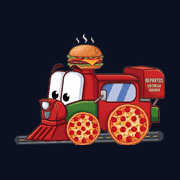
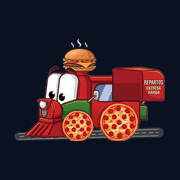
Cajon de repartos mas grande, delante de la cabina
Lo que el logo tiene que decir primero es "servicio express", y lo dice el
cajon. Se agranda, se mete hasta la mitad de la ventana de la cabina y sale
mas a la derecha del tren, segun el recuadro que marco el negocio. Tapar
parte de la ventana es a proposito: lo pidieron asi para que el cajon
resalte.

EL FRENTE SE ESCALA, EL COSTADO SE ALARGA

Estirar el cajon completo hacia los lados deformaba "REPARTOS". Se corta en
tres tramos: el contorno izquierdo, el costado liso (que es el que se
alarga, 1,48 veces) y el frente con el texto, que solo se escala parejo.
Despues todo crece un 15 %, asi el texto tambien gana tamano.

LO QUE NUNCA SE HABIA DIBUJADO

En el original el cajon va detras de la cabina y el techo le tapa la parte
baja del costado. Al ponerlo delante esa parte queda a la vista, asi que se
reconstruye fila por fila con el color del tramo de costado que si se veia,
y se le dibuja el contorno izquierdo y el de abajo, con la esquina
redondeada como la de arriba. El contorno nuevo arranca por encima de donde
termina el original para que no quede un escalon entre los dos.

El cajon original termina en y=841: lo que sigue abajo es la repisa gris y
la punta del soporte, que son del tren y se quedan. El cajon nuevo baja
hasta 885 para tapar la repisa, que asomaba como una raya clara.

La carretera ahora corre por todo el ancho, tambien debajo del cajon que
sobresale.

Changed region(s): [[0.0833, 0.1944, 0.9167, 0.8056]]

diff --git a/scripts/preparar-logo.py b/scripts/preparar-logo.py
@@ -157,6 +157,118 @@ def quitar_fondo(original: Image.Image) -> Image.Image:
 
 
 # ---------------------------------------------------------------------------
+# El cajon de repartos, mas grande
+# ---------------------------------------------------------------------------
+#
+# Lo que el logo tiene que decir primero es "servicio express", y el cajon es
+# lo que lo dice. Se agranda, se mete hasta la mitad de la ventana de la
+# cabina y sale mas a la derecha del tren, como lo marco el negocio.
+#
+# En el dibujo original el cajon va DETRAS de la cabina: el techo le tapa la
+# parte de abajo del costado. Para ponerlo delante hay que inventarle esa
+# parte que nunca se dibujo, y su contorno.
+#
+# Coordenadas sobre la imagen ya recortada por quitar_fondo().
+
+# La cabina, que tapa el costado del cajon: su borde sigue el contorno oscuro
+# del techo y baja por la pared de atras.
+CABINA = [(1380, 508), (1445, 508), (1500, 516), (1560, 543), (1605, 576),
+          (1632, 618), (1652, 678), (1656, 880)]
+
+# El cajon original. Abajo termina en 841: lo que sigue es la repisa gris y la
+# punta del soporte, que son del tren y se quedan donde estan.
+CAJON = (1438, 400, 841)            # x izquierda, y arriba, y abajo
+CAJON_BORDE = (1438, 1453)          # contorno izquierdo original
+CAJON_FRENTE_X = 1690               # donde empieza la cara con el texto
+CAJON_COLUMNA_COSTADO = 1672        # tramo de costado que si se ve
+CAJON_COSTADO_DESDE_Y = 480         # desde aqui el costado se reconstruye
+CAJON_CONTORNO_DESDE_Y = 470        # y su contorno, solapado con el original
+
+# Donde queda el cajon nuevo. El frente con el texto solo se escala, para que
+# "REPARTOS" no se deforme; lo que se alarga es el costado, que es liso.
+CAJON_ESCALA = 1.15
+CAJON_NUEVO_IZQUIERDA = 1400        # la mitad de la ventana
+CAJON_NUEVO_DERECHA = 2150          # sale del tren hacia la derecha
+CAJON_NUEVO_ABAJO = 885             # tapa la repisa gris que asomaba debajo
+
+
+def agrandar_cajon(logo: Image.Image) -> Image.Image:
+    ancho, alto = logo.size
+    pixeles = np.array(logo)
+
+    mascara = Image.new('L', (ancho, alto), 0)
+    ImageDraw.Draw(mascara).polygon(
+        CABINA + [(CABINA[-1][0], alto), (CABINA[0][0], alto)], fill=255
+    )
+    cabina = np.array(mascara) > 0
+
+    x0, y0, y1 = CAJON
+    en_caja = np.zeros((alto, ancho), bool)
+    en_caja[y0:y1, x0:] = True
+    cajon = en_caja & (pixeles[:, :, 3] > 0) & ~cabina
+
+    capa = np.zeros_like(pixeles)
+    capa[cajon] = pixeles[cajon]
+
+    # El costado se reconstruye fila por fila con el color del tramo que si
+    # se ve. Lo que habia ahi era en parte el techo de la cabina.
+    for y in range(CAJON_COSTADO_DESDE_Y, y1):
+        capa[y, CAJON_BORDE[1]:CAJON_COLUMNA_COSTADO] = pixeles[y, CAJON_COLUMNA_COSTADO]
+        capa[y, CAJON_BORDE[1]:CAJON_COLUMNA_COSTADO, 3] = 255
+
+    # Contorno izquierdo y de abajo, que antes no hacia falta.
+    borde = np.array([*CONTORNO, 255], np.uint8)
+    capa[CAJON_CONTORNO_DESDE_Y:y1, CAJON_BORDE[0]:CAJON_BORDE[1]] = borde
+    capa[y1 - 15:y1, CAJON_BORDE[0]:CAJON_COLUMNA_COSTADO] = borde
+
+    caja_img = Image.fromarray(capa, 'RGBA').crop((x0, y0, ancho, y1))
+    caja_img = caja_img.crop(caja_img.getbbox())
+
+    # Esquina de abajo a la izquierda redondeada, como la de arriba.
+    radio = 22
+    redondeo = Image.new('L', caja_img.size, 255)
+    rd = ImageDraw.Draw(redondeo)
+    rd.rectangle([0, caja_img.height - radio, radio, caja_img.height], fill=0)
+    rd.pieslice([0, caja_img.height - 2 * radio, 2 * radio, caja_img.height], 90, 180, fill=255)
+    a = np.array(caja_img)
+    a[:, :, 3] = np.minimum(a[:, :, 3], np.array(redondeo))
+    caja_img = Image.fromarray(a, 'RGBA')
+
+    # Tres tramos: contorno, costado (se alarga) y frente (no se deforma).
+    corte_borde = CAJON_BORDE[1] - CAJON_BORDE[0]
+    corte_frente = CAJON_FRENTE_X - CAJON_BORDE[0]
+    tramo_borde = caja_img.crop((0, 0, corte_borde, caja_img.height))
+    tramo_costado = caja_img.crop((corte_borde, 0, corte_frente, caja_img.height))
+    tramo_frente = caja_img.crop((corte_frente, 0, caja_img.width, caja_img.height))
+
+    total = int((CAJON_NUEVO_DERECHA - CAJON_NUEVO_IZQUIERDA) / CAJON_ESCALA)
+    ancho_costado = total - tramo_borde.width - tramo_frente.width
+    tramo_costado = tramo_costado.resize((ancho_costado, caja_img.height), Image.LANCZOS)
+
+    largo = Image.new('RGBA', (total, caja_img.height), (0, 0, 0, 0))
+    largo.paste(tramo_borde, (0, 0))
+    largo.paste(tramo_costado, (tramo_borde.width, 0))
+    largo.paste(tramo_frente, (tramo_borde.width + ancho_costado, 0))
+
+    grande = largo.resize(
+        (int(largo.width * CAJON_ESCALA), int(largo.height * CAJON_ESCALA)), Image.LANCZOS
+    )
+    arriba = CAJON_NUEVO_ABAJO - grande.height
+
+    resto = pixeles.copy()
+    resto[cajon, 3] = 0
+    resto[cajon, :3] = CONTORNO
+
+    ancho_final = max(ancho, CAJON_NUEVO_IZQUIERDA + grande.width)
+    sube = max(0, -arriba)
+    final = Image.new('RGBA', (ancho_final, alto + sube), (0, 0, 0, 0))
+    final.alpha_composite(Image.fromarray(resto, 'RGBA'), (0, sube))
+    # Delante de la cabina: tapar parte de la ventana es a proposito.
+    final.alpha_composite(grande, (CAJON_NUEVO_IZQUIERDA, arriba + sube))
+    return final
+
+
+# ---------------------------------------------------------------------------
 # La via se cambia por una carretera
 # ---------------------------------------------------------------------------
 #
@@ -335,6 +447,11 @@ def main() -> None:
 
     logo = quitar_fondo(original)
     print(f'Recortado: {logo.width} x {logo.height}')
+
+    # El cajon va antes que la carretera: sus coordenadas son las de la
+    # imagen recortada, y la carretera vuelve a recortar al final.
+    logo = agrandar_cajon(logo)
+    print(f'Cajon agrandado: {logo.width} x {logo.height}')
 
     logo = cambiar_via_por_carretera(logo)
     print('Via cambiada por carretera.')
